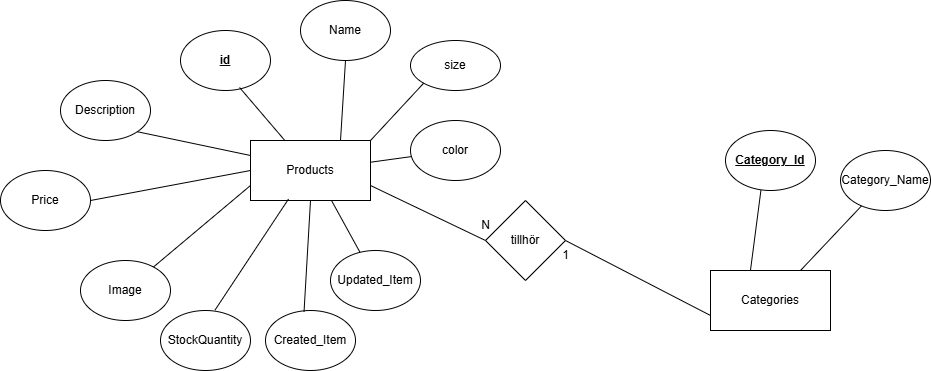
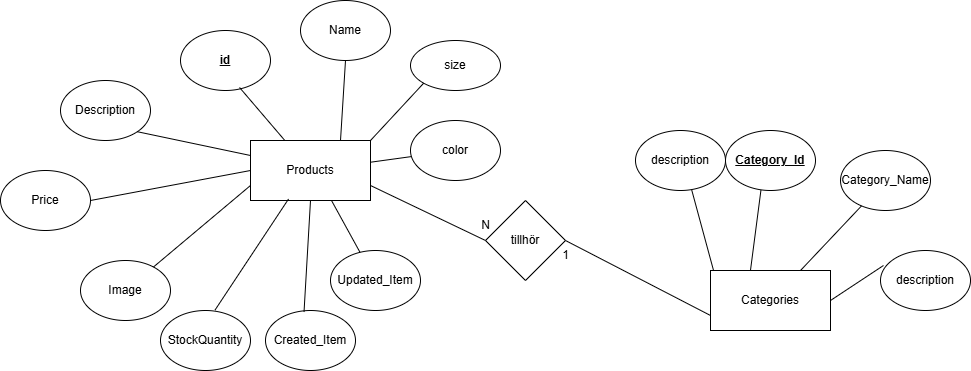
crud funktionalitet för tabellen Category med MVC

diff --git a/controllers/category.controller.js b/controllers/category.controller.js
@@ -1,0 +1,76 @@
+const Category = require("../models/Category.model.js");
+const Joi = require("joi");
+
+// GET - Hämta alla kategorier
+exports.getCategories = async (request, h) => {
+    try {
+        const categories = await Category.find();
+        return h.response(categories).code(200);
+    } catch (err) {
+        return h.response(err).code(500);
+    }
+};
+
+exports.getCategoryByName = async (request, h) => {
+        const CategorieName = request.params.name;
+
+            try {
+            const category = await Category.findOne({ name: CategorieName });
+
+            if (!category) {
+                return h.response("Category not found").code(404);
+              }
+ 
+               return category; // skickar tillbaka produkten som JSON
+           } catch (error) {
+               return h.response("There was an error: " + error).code(500);
+           }
+        }
+
+// POST - Skapa en ny kategori
+exports.createCategory = async (request, h) => {
+    try {
+                const category = new Category(request.payload);
+                return await category.save();
+            }catch(error){
+                return h.response("There was an error" + error).code(500);
+            }
+};
+
+// PUT - Uppdatera en kategori
+exports.updateCategory = async (request, h) => {
+    const categoryName = request.params.name; //sparar värdet vi fått från url 
+        const updateData = request.payload; // det vi vill uppdatera
+
+        try {
+            const updatedCategory = await Category.findOneAndUpdate(
+                { name: categoryName },   // hitta produkten
+                updateData,              // uppdatera med nya värden
+                { new: true }            // returnera den uppdaterade produkten
+            );
+
+            if (!updatedCategory) {
+                return h.response("Category not found").code(404);
+            }
+
+            return updatedCategory;
+        } catch (error) {
+            return h.response("There was an error: " + error).code(500);
+        }
+};
+
+// DELETE - Ta bort en kategori
+exports.deleteCategory = async (request, h) => {
+   const categoryName = request.params.name;
+
+        try {
+            const deletedCategory = await Category.findOneAndDelete({ name: categoryName });
+
+            if (!deletedCategory) {
+                return h.response("Category not found").code(404);
+            }
+            return h.response("Category deleted successfully").code(200);
+        } catch (error) {
+            return h.response("There was an error: " + error).code(500);
+        }
+};

diff --git a/routers/category.route.js b/routers/category.route.js
@@ -1,0 +1,54 @@
+
+const categoryController = require('../controllers/category.controller');
+const Joi = require("joi");
+
+module.exports = (server) => {
+    server.route([
+        {
+            method: 'GET',
+            path: '/categories',
+            handler: categoryController.getCategories
+        },
+        {
+            method: 'GET',
+            path: '/categories/{name}',
+            handler: categoryController.getCategoryByName
+        },
+        {
+            method: 'POST',
+            path: '/categories',
+            options: {
+                validate: {
+                     payload: Joi.object({
+                      name: Joi.string().min(3).max(50).required(),
+                      description: Joi.string().max(200).optional(),
+                      active: Joi.boolean().optional()
+                    }),
+                    failAction: (request, h, err) => { throw err; }
+                },
+                handler: categoryController.createCategory
+            }
+        },
+        {
+            method: 'PUT',
+            path: '/categories/{name}',
+            options: {
+                validate: {
+                    payload: Joi.object({
+                      name: Joi.string().min(3).max(50).required(),
+                      description: Joi.string().max(200).optional(),
+                      active: Joi.boolean().optional()
+                    }),
+                    failAction: (request, h, err) => { throw err; }
+                },
+                handler: categoryController.updateCategory
+            }
+        },
+        {
+            // Ändra till {id} här för att vara tydlig
+            method: 'DELETE',
+            path: '/categories/{name}', 
+            handler: categoryController.deleteCategory
+        }
+    ]);
+};

diff --git a/models/Category.model.js b/models/Category.model.js
@@ -1,0 +1,31 @@
+const mongoose = require('mongoose');
+
+//hämta aktuell år
+const currentYear = new Date().getFullYear();
+
+const CategorySchema = new mongoose.Schema({
+   name: {
+        type: String,
+        required: [true, "Category name is required"],
+        unique: true, // Förhindrar dubbletter av samma kategori
+        trim: true,   // Tar bort onödiga mellanslag i början/slutet
+        minlength: [3, "Category name must be at least 3 characters"],
+        maxlength: [80, "Category name must be at most 80 characters"]
+        },
+    description: {
+        type: String,
+        maxlength: [200, "Beskrivningen är för lång"],
+        default: ""
+    },
+    active: {
+        type: Boolean,
+        default: true // Bra om du vill "dölja" en kategori utan att radera den helt
+    }
+}, { 
+    // Detta lägger automatiskt till createdAt och updatedAt
+    timestamps: true 
+}
+);
+
+const Category =mongoose.model("Category", CategorySchema);
+module.exports = Category;

diff --git a/server.js b/server.js
@@ -4,11 +4,17 @@ const Hapi = require('@hapi/hapi');
 const mongoose = require('mongoose');
 require('dotenv').config();
 
+
+
 const init = async () => {
     const server = Hapi.server({
         port: process.env.PORT || 3000,
         host: 'localhost',
-        routes: { cors: true } //  viktigt för att connect till vue sedan. 
+        routes: {
+        cors: {
+            origin: ['*'] // Flytta in cors hit!
+        }
+    }
     });
 
     //  connecting to MongoDB
@@ -20,8 +26,10 @@ const init = async () => {
         process.exit(1);
     }
 
-    //Routes 
-    
+//server routes
+   require("./routers/category.route") (server);
+
+
     await server.start();
     console.log('🚀 Server running on %s', server.info.uri);
 };
